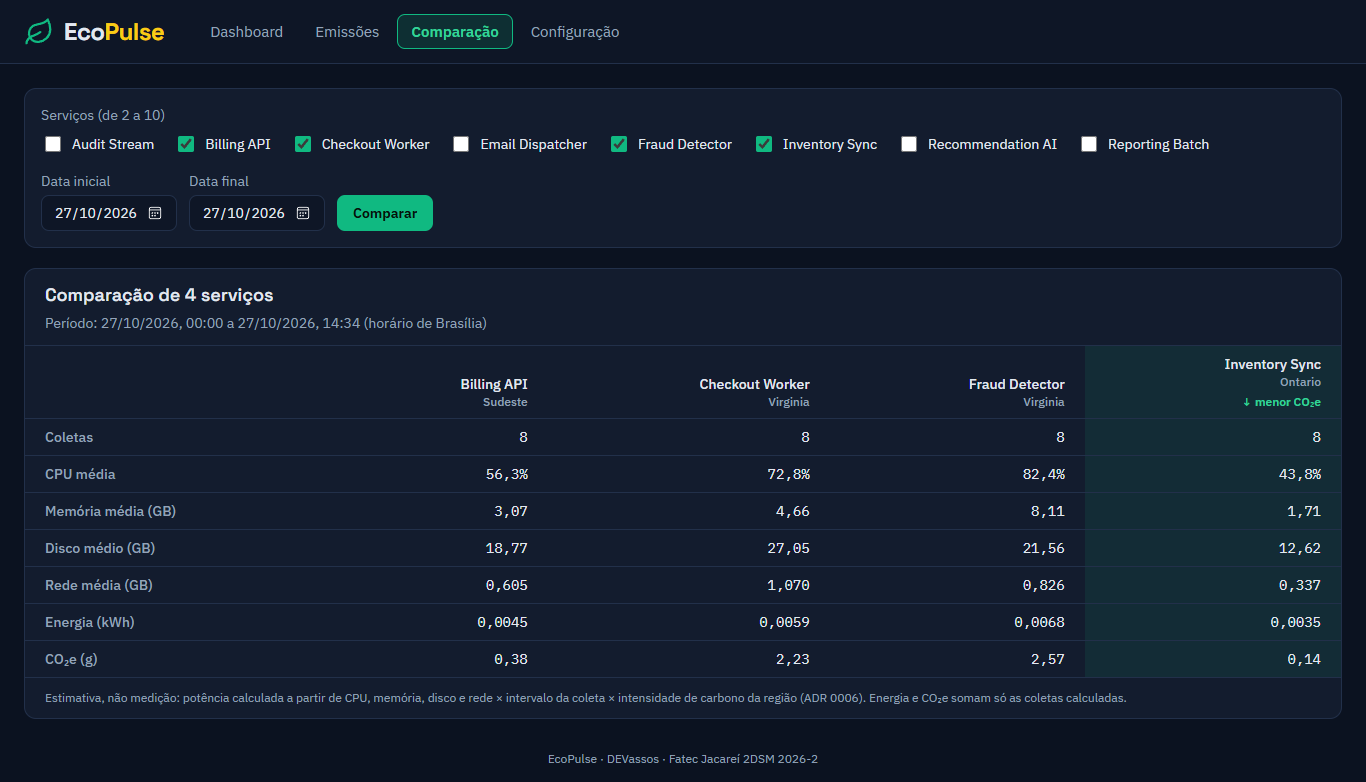
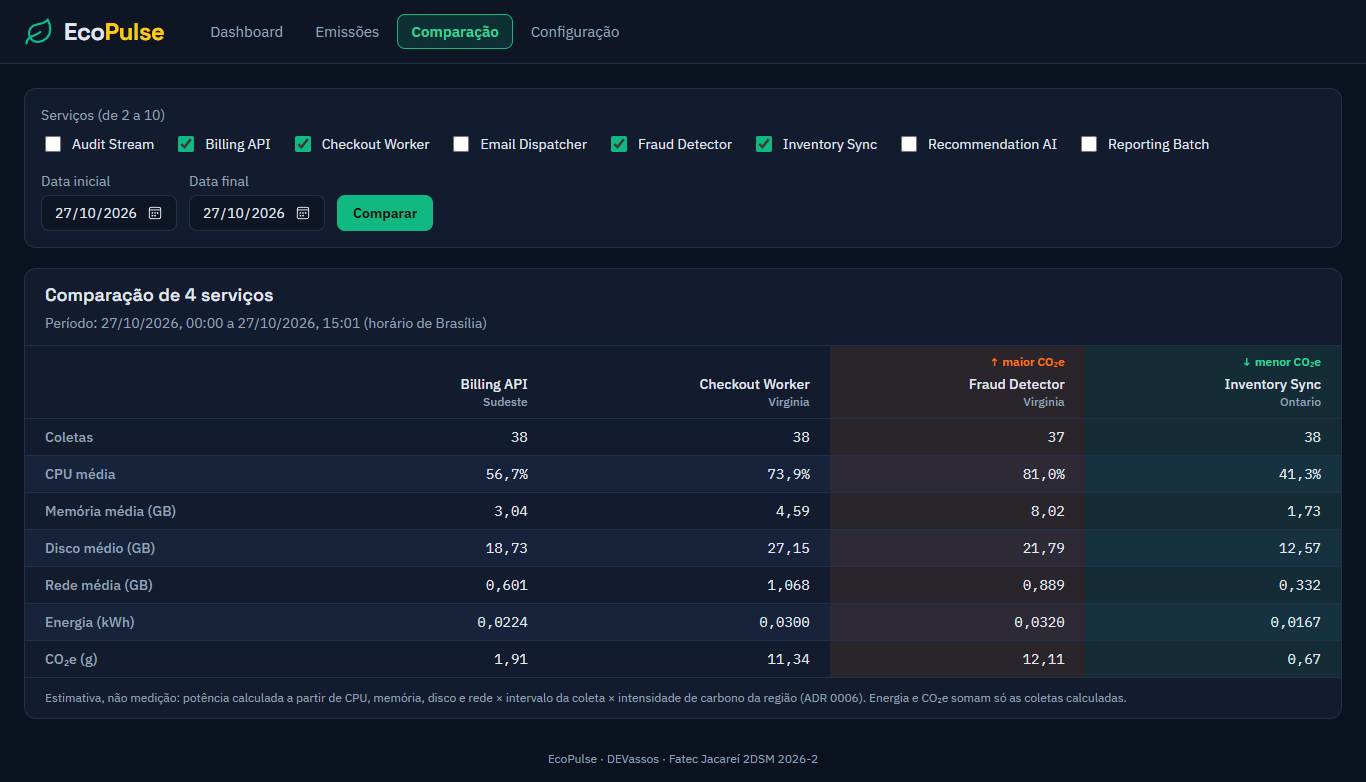
docs(frontend): descreve o destaque de maior CO₂e (#194) [RF15]
frontend/README.md (seção da comparação e passos 36 e 37) e README raiz
(RF15 e legenda) passam a citar o maior CO2e. Print refeito com o backend
real em 27/10/2026.

diff --git a/frontend/README.md b/frontend/README.md
@@ -71,7 +71,7 @@ Lidas do `.env` da **raiz** do repositório (modelo em `.env.example`; `envDir: 
 ## Comparação entre serviços (#194)
 
 - **Comparação**, no menu do topo, abre `/comparacao`: de 2 a 10 serviços no mesmo período (até 31 dias), por `GET /api/services/compare` (#193). Serviços e datas ficam na URL (`/comparacao?servicos=<id>,<id>&de=<AAAA-MM-DD>&ate=<AAAA-MM-DD>`); as datas seguem as regras da página Emissões, e ids que não estão na lista de serviços são ignorados.
-- Uma coluna por serviço e uma linha por métrica: coletas (com falha e sem cálculo), CPU, memória, disco e rede médios, energia (kWh) e CO₂e (g) somados no período. O menor CO₂e fica destacado, com texto e cor, quando ao menos dois serviços têm cálculo. O período ecoado pela API aparece acima da tabela.
+- Uma coluna por serviço e uma linha por métrica: coletas (com falha e sem cálculo), CPU, memória, disco e rede médios, energia (kWh) e CO₂e (g) somados no período. Acima do nome do serviço, "↓ menor CO₂e" (verde) e "↑ maior CO₂e" (laranja, o tom de alerta) destacam os extremos do período, com texto e cor, quando ao menos dois serviços têm cálculo e não empatam todos. As linhas alternam de cor. O período ecoado pela API aparece acima da tabela.
 - Serviço sem coletas no período aparece como "sem coletas", e as métricas como "—", nunca zero. Com menos de dois serviços, a tela explica o que falta e não busca.
 - Uma busca por filtro, sem polling. Se ela falha, aparece só o erro com **Tentar novamente**, sem a comparação anterior.
 - O backend falso (`npm run mock`) não tem a rota: use o modo demonstração ou o backend real.
@@ -180,6 +180,6 @@ npm run mock        # backend falso em http://localhost:3000 (desenvolvimento)
 33. Com o resumo na tela, parar o mock e clicar em **Atualizar** → aparece o erro com **Tentar novamente**, o selo fica laranja ("Desatualizado desde …") e os números do resumo e da Leitura do período ficam apagados. Ainda com o mock parado, trocar a estação → "Aguardando a primeira atualização" e o erro, sem resumo. Subir o mock e clicar em **Tentar novamente** → a tela volta ao normal.
 34. O subtítulo do cartão mostra o fuso depois da data: "(horário de Brasília)" com o navegador em `America/Sao_Paulo`. Com outro fuso no sistema (ou no DevTools, em Sensors → Location, campo Timezone ID), mostra o deslocamento, ex.: "(UTC−4)" em Nova York, e o `from` da busca muda junto.
 35. Sem `.env`, clicar em **Comparação** no menu → abre `/comparacao` sem serviços marcados e com "Escolha pelo menos dois serviços". Marcar só um e clicar em **Comparar** → "Escolha pelo menos dois serviços para comparar.", sem busca.
-36. Marcar **Fraud Detector**, **Reporting Batch** e **Inventory Sync** e clicar em **Comparar** → a URL ganha `servicos`, `de` e `ate`, e a tabela mostra os três lado a lado, com o período escrito acima. **Reporting Batch** aparece com "menor CO₂e", e **Inventory Sync** com todas as coletas com falha e "—" nas métricas. O botão voltar do navegador volta à tela sem escolha.
-37. Com o backend real, escolher uma data sem coletas (ex.: anterior à primeira subida do banco) → cada serviço aparece como "sem coletas", sem destaque de menor CO₂e. Parar o backend e clicar em **Comparar** → só o erro com **Tentar novamente**, sem tabela.
+36. Marcar **Fraud Detector**, **Reporting Batch** e **Inventory Sync** e clicar em **Comparar** → a URL ganha `servicos`, `de` e `ate`, e a tabela mostra os três lado a lado, com o período escrito acima. **Fraud Detector** aparece com "maior CO₂e" e **Reporting Batch** com "menor CO₂e", acima do nome; **Inventory Sync**, com todas as coletas com falha e "—" nas métricas. O botão voltar do navegador volta à tela sem escolha.
+37. Com o backend real, escolher uma data sem coletas (ex.: anterior à primeira subida do banco) → cada serviço aparece como "sem coletas", sem destaque de menor ou maior CO₂e. Parar o backend e clicar em **Comparar** → só o erro com **Tentar novamente**, sem tabela.
 38. Com 375 px de largura → a página não ganha rolagem lateral; só a tabela rola na horizontal.

diff --git a/README.md b/README.md
@@ -74,11 +74,11 @@ O desenvolvimento acontece na branch `develop`; cada funcionalidade entra nesta 
 
 - **RF07, RF10 — Página Emissões (#190, PR #200):** o item **Emissões** do menu abre `/emissoes`, com a emissão estimada de CO₂e e a energia de uma estação no período escolhido. A estação e as datas ficam na URL, então o link abre no mesmo filtro. O agrupamento é automático pelo tamanho do período: cada coleta até 2 h (`GET /api/collections`), 15 min até 1 dia e 1 hora acima disso (`GET /api/collections/series`). O resumo mostra emissão, energia, média por coleta, pico, intensidade da região e coletas com falha, sem cálculo e tempo sem coleta. **Tempo real** busca de novo no intervalo do dashboard. Sem cálculo aparece "—", nunca zero, e numa falha o resumo fica apagado, com "Desatualizado desde …". O gráfico entra na segunda parte da #190. Como verificar em [frontend/README.md](frontend/README.md#página-emissões-190).
 
-- **RF15 — Comparação entre serviços (#193, PR #214; #194):** o item **Comparação** do menu abre `/comparacao`, com 2 a 10 serviços lado a lado no mesmo período (até 31 dias): coletas, médias de CPU, memória, disco e rede, e energia e CO₂e somados, por `GET /api/services/compare`. O menor CO₂e fica destacado, o período aparece acima da tabela, e serviço sem coletas aparece como "sem coletas", nunca zero. Serviços e datas ficam na URL. Como verificar em [frontend/README.md](frontend/README.md#comparação-entre-serviços-194).
+- **RF15 — Comparação entre serviços (#193, PR #214; #194):** o item **Comparação** do menu abre `/comparacao`, com 2 a 10 serviços lado a lado no mesmo período (até 31 dias): coletas, médias de CPU, memória, disco e rede, e energia e CO₂e somados, por `GET /api/services/compare`. O menor e o maior CO₂e ficam destacados, o período aparece acima da tabela, e serviço sem coletas aparece como "sem coletas", nunca zero. Serviços e datas ficam na URL. Como verificar em [frontend/README.md](frontend/README.md#comparação-entre-serviços-194).
 
   ![Comparação de quatro serviços com o backend real](docs/img/sprint-2-comparacao.png)
 
-  _Quatro serviços comparados com o backend real (`docker compose`) em 27/10/2026, das 00:00 às 14:34: Inventory Sync tem o menor CO₂e do período._
+  _Quatro serviços comparados com o backend real (`docker compose`) em 27/10/2026, das 00:00 às 15:01: Fraud Detector tem o maior CO₂e do período e Inventory Sync, o menor._
 
 - **RNF05, DW07 — Execução com Docker (#91, #113, #81):** backend, frontend (nginx) e PostgreSQL sobem juntos por `docker compose up --build`, com volume persistente para o banco e todas as variáveis documentadas em [.env.example](.env.example) (#82). Passo a passo no [README](#8-como-executar).
 
